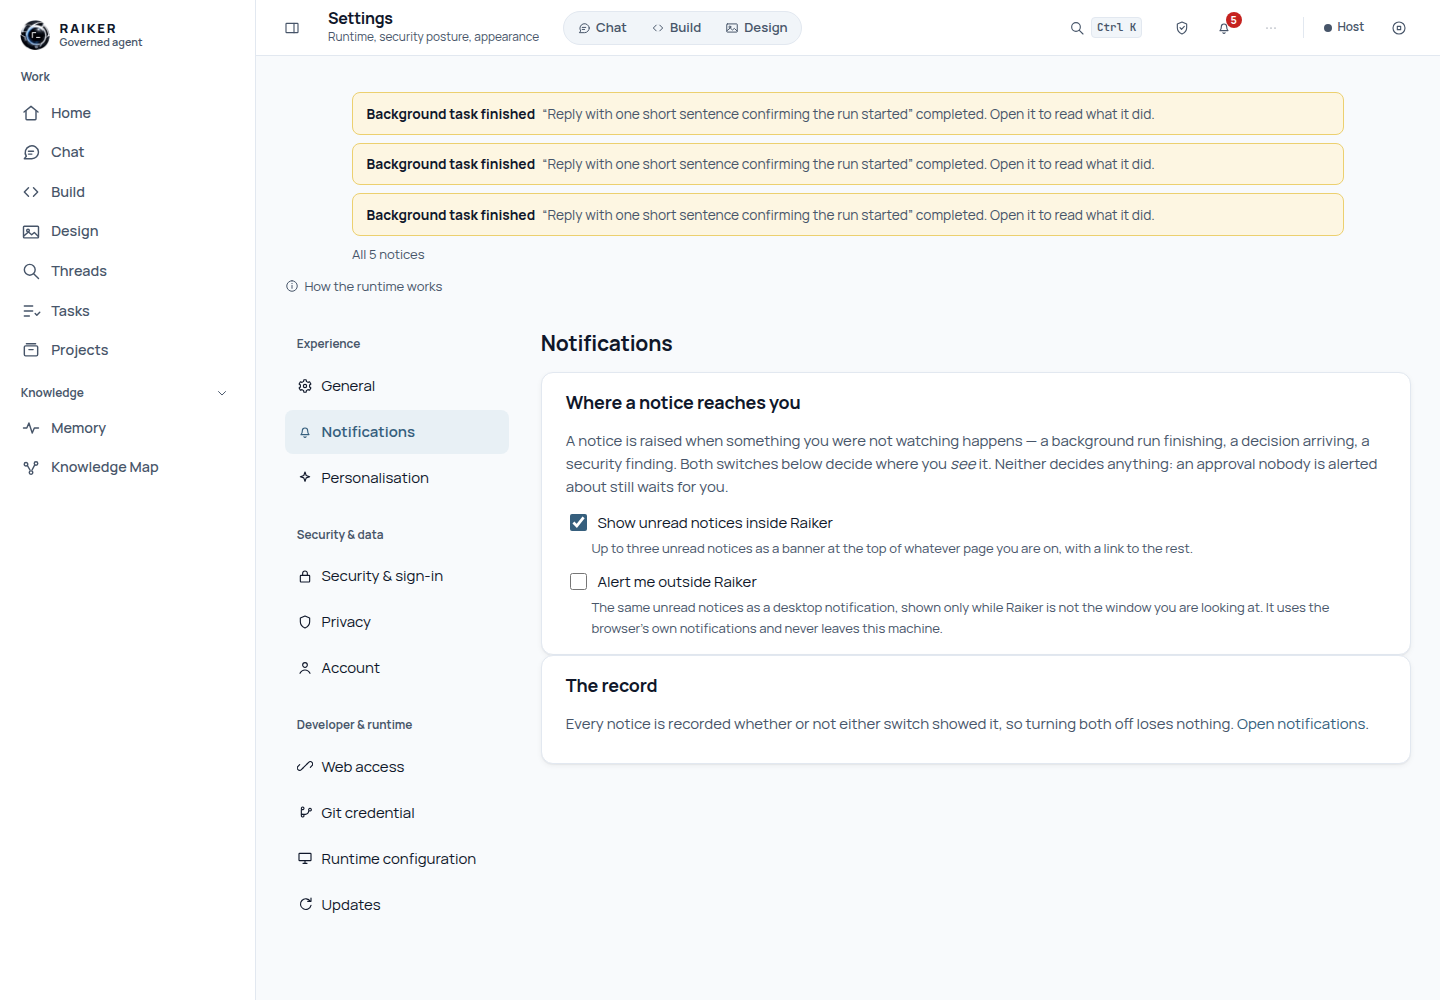
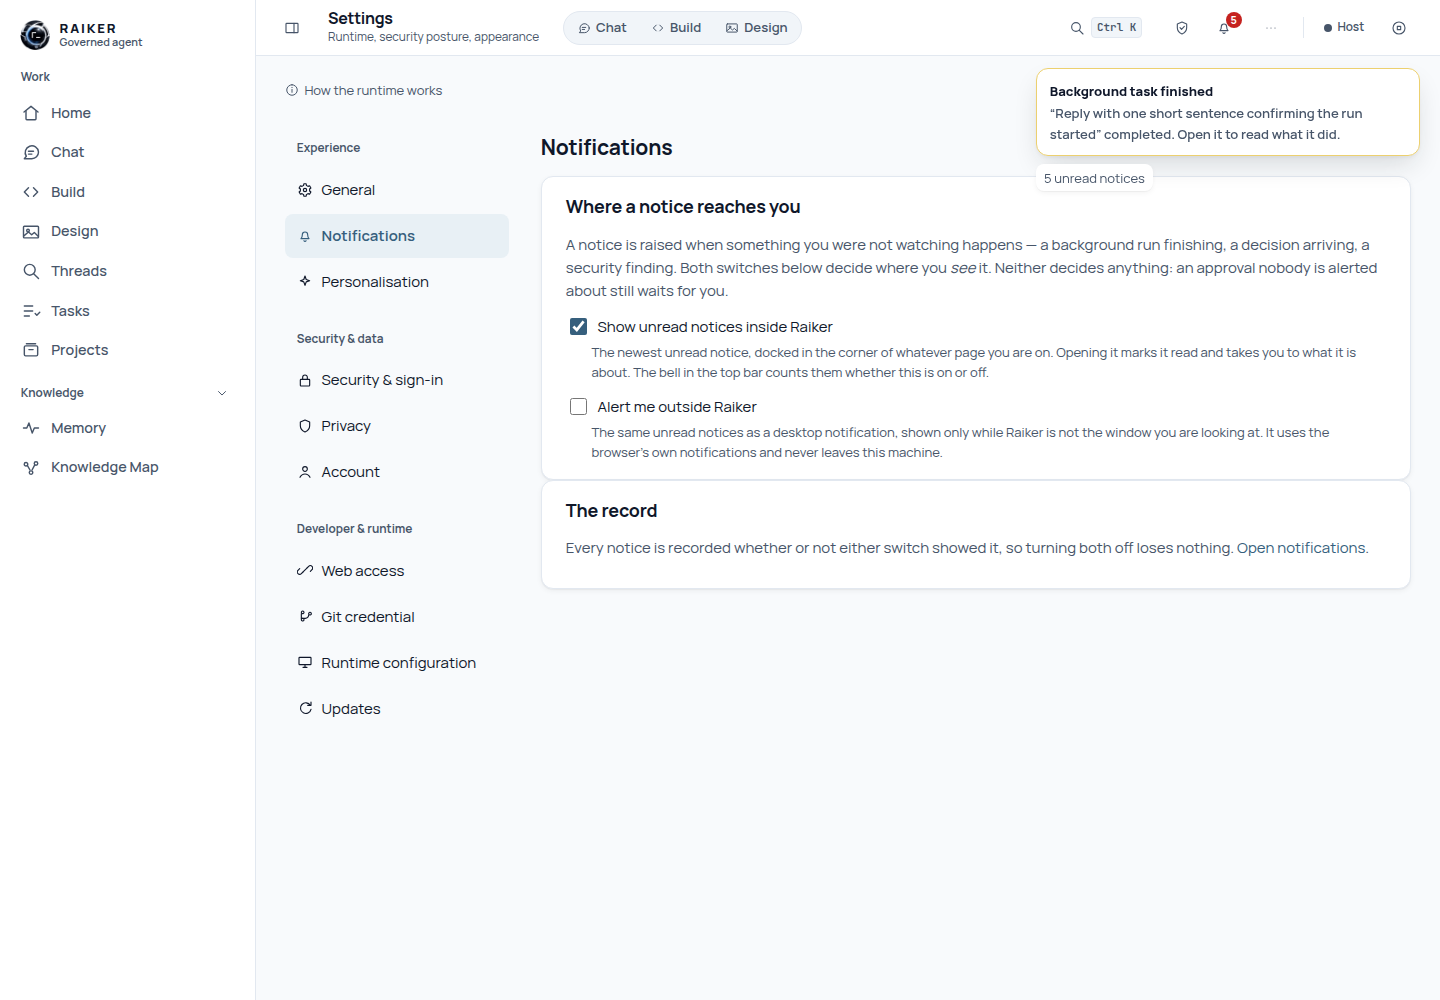
Dock the notice strip, and generate the page catalogue that found it
The responsive sweep is the point of this commit, and it earned itself on
its first run.

`docs/screenshots/README.md` has said since the 2026-09-07 audit that
regenerating `docs/screenshots/pages/` "remains a live-test step before the
screenshot refresh can be called complete". It ran: every destination the nav
registry declares, at mobile (390x844) and 1080p, in light and dark, 176
files, against a live host. The sweep asserts as it captures — no horizontal
overflow, no missing icon glyph, no off-screen selected tab, no undersized
control, the content column centred within its maximum.

It failed immediately, and correctly. The notification strip this branch
moved into the shell had been placed above the routed page, and Chat, Build
and Design size themselves to `--content-h` — the room between the topbar and
the bottom of the viewport — so anything above them pushes their composer off
the bottom. At 390x844 Build's composer ended 385px past the edge. No
component test could have seen that; the sweep measures the real thing at the
real size.

So the strip docks, like ApprovalPrompt, at the opposite corner, taking no
part in any page's height. Reading the captures then found two more
placement facts an assertion would not have: three docked cards covered
Home's primary actions at 1080p and most of the screen at 390px, and a docked
notice that nothing dismisses is permanent — a worse obstruction than the
[…]

diff --git a/web/src/lib/components/NotificationCenter.svelte b/web/src/lib/components/NotificationCenter.svelte
@@ -49,6 +49,27 @@
     return () => clearInterval(timer);
   });
 
+  /**
+   * Reading it is what clears it.
+   *
+   * A docked notice that nothing dismisses is a permanent obstruction, which is
+   * a worse defect than the one this strip was moved to fix. Opening it marks
+   * the notice read through the same route the bell's **Mark all read** uses,
+   * so the strip, the bell's count and the record never disagree — and the
+   * owner lands on the record rather than on a banner they have to ignore.
+   */
+  async function open(notification: RaikerNotification) {
+    window.location.hash =
+      notification.kind === "task_finished" ? "#/tasks" : "#/observe?tab=notifications";
+    try {
+      await api.markNotificationRead(notification.notification_id);
+    } catch {
+      // The navigation already happened and the record is still the record.
+      // A failed mark leaves the notice unread, which is the truth.
+    }
+    await poll();
+  }
+
   // Mirror new unread notifications to the desktop through the one path every
   // surface uses (BUG-255). Best-effort only — the in-app record is the source
   // of truth.
@@ -70,34 +91,69 @@
   });
 </script>
 
-{#if uiPrefs.inApp && unread.length}
+{#if uiPrefs.inApp && unread.length > 0}
+  {@const newest = unread[0]}
   <section class="notifications" aria-label="Notifications">
-    {#each unread.slice(0, 3) as notification (notification.notification_id)}
-      <div class="notice notice-warn" role="status">
-        <strong>{notification.title}</strong><span>{notification.body}</span>
-      </div>
-    {/each}
-    <!-- Three is what fits without becoming the page. The rest are not lost:
-         every notice is recorded, and the link says where. -->
-    <a class="all" href="#/observe?tab=notifications">
-      {unread.length > 3
-        ? `All ${unread.length} notices`
-        : unread.length === 1
-          ? "Open notifications"
-          : "All notices"}
-    </a>
+    <!-- One, not a stack. Three docked cards covered Home's primary actions at
+         1080p and most of the screen at 390px, which is a worse obstruction
+         than the banner nobody could see. The rest are never lost: the bell
+         counts them and the link below opens the record. -->
+    <button type="button" class="notice" onclick={() => void open(newest)}>
+      <strong>{newest.title}</strong><span>{newest.body}</span>
+    </button>
+    {#if unread.length > 1}
+      <a class="all" href="#/observe?tab=notifications"
+        >{unread.length} unread notices</a
+      >
+    {/if}
   </section>
 {/if}
 
 <style>
+  /**
+   * Docked rather than in the flow, and the reason is measurable.
+   *
+   * The first placement put this inside `main#main`, above the routed page. The
+   * responsive sweep caught it immediately: Chat, Build and Design size
+   * themselves to `--content-h` — the room between the topbar and the bottom of
+   * the viewport — so anything added above them pushes their composer below the
+   * fold. At 390×844 Build's composer ended 385px past the bottom edge.
+   *
+   * A notice is not page content; the record is, and it is one link away. So
+   * this docks like `ApprovalPrompt` does — fixed, bounded, and taking no part
+   * in any page's height — at the opposite corner, so the two never collide.
+   */
   .notifications {
+    position: fixed;
+    top: calc(var(--topbar-h) + 12px);
+    right: 20px;
+    z-index: var(--z-docked);
+    width: min(24rem, calc(100vw - 40px));
     display: grid;
     gap: var(--space-2);
-    margin: 0 auto var(--space-3);
-    max-width: 64rem;
-    padding: var(--space-3) var(--space-4) 0;
+    justify-items: start;
   }
-  .notice { display: flex; gap: .45rem; flex-wrap: wrap; margin: 0; }
-  .notice span { color: var(--text-2); }
-  .all { color: var(--text-2); font-size: var(--text-sm); justify-self: start; }
+  .notice {
+    display: grid;
+    gap: 0.15rem;
+    width: 100%;
+    text-align: left;
+    cursor: pointer;
+    padding: 0.72rem 0.8rem;
+    border: 1px solid var(--warn-border, var(--neutral-border));
+    border-radius: var(--r-md);
+    background: var(--surface);
+    box-shadow: var(--shadow-2);
+  }
+  .notice:hover { border-color: var(--accent-border, var(--neutral-border)); }
+  .notice strong { color: var(--text-1); font-size: var(--text-sm); }
+  .notice span { color: var(--text-2); font-size: var(--text-sm); overflow-wrap: anywhere; }
+  .all {
+    color: var(--text-2);
+    font-size: var(--text-sm);
+    padding: 0.2rem 0.5rem;
+    border-radius: var(--r-sm);
+    background: var(--surface);
+    box-shadow: var(--shadow-1);
+  }
 </style>

diff --git a/web/src/lib/components/SessionMenu.test.ts b/web/src/lib/components/SessionMenu.test.ts
@@ -1,4 +1,4 @@
-import { fireEvent, render, screen } from "@testing-library/svelte";
+import { fireEvent, render, screen, waitFor } from "@testing-library/svelte";
 import { afterEach, describe, expect, it, vi } from "vitest";
 import { api, setToken } from "../api";
 import { stubFetch } from "../test-helpers";
@@ -92,7 +92,7 @@ describe("shared page feedback", () => {
   // the shell rather than on one page. It was mounted on the MCP destination
   // alone, so the account-wide "In-app popups" setting decided whether a banner
   // appeared somewhere the owner might never open.
-  it("shows unread notices wherever the owner is, and links the full record", async () => {
+  it("shows the newest unread notice wherever the owner is", async () => {
     setToken("control-token");
     stubFetch({
       "GET /api/notifications": [
@@ -106,10 +106,38 @@ describe("shared page feedback", () => {
     expect(strip).toHaveTextContent("Security finding");
     // A notice that has been read is a record, not an alert.
     expect(strip).not.toHaveTextContent("Nightly digest");
-    expect(screen.getByRole("link", { name: "Open notifications" })).toHaveAttribute(
+    // One unread: the count link would be a link to a page saying the same
+    // thing this card already says.
+    expect(screen.queryByRole("link", { name: /unread notices/ })).not.toBeInTheDocument();
+  });
+
+  // A docked notice nothing dismisses is a permanent obstruction, which is a
+  // worse defect than the banner nobody could see. Reading it clears it.
+  it("marks a notice read when it is opened, and counts the rest", async () => {
+    setToken("control-token");
+    const fetchMock = stubFetch({
+      "GET /api/notifications": [
+        { notification_id: "ntf_1", kind: "task_finished", title: "Nightly digest", body: "Done.", finding_id: null, subject_id: null, read: false, created_at: "2026-07-18T00:00:00Z" },
+        { notification_id: "ntf_2", kind: "security_alert", title: "Security finding", body: "Review it.", finding_id: null, subject_id: null, read: false, created_at: "2026-07-18T00:00:00Z" },
+      ],
+      "POST /api/notifications/ntf_1/read": { ok: true },
+    });
+    render(NotificationCenter);
+
+    expect(await screen.findByRole("link", { name: "2 unread notices" })).toHaveAttribute(
       "href",
       "#/observe?tab=notifications",
     );
+    await fireEvent.click(await screen.findByRole("button", { name: /Nightly digest/ }));
+
+    await waitFor(() =>
+      expect(fetchMock).toHaveBeenCalledWith(
+        expect.stringContaining("/api/notifications/ntf_1/read"),
+        expect.objectContaining({ method: "POST" }),
+      ),
+    );
+    // A finished run lands on the work, not on a list about it.
+    expect(window.location.hash).toBe("#/tasks");
   });
 });
 

diff --git a/web/e2e/rem-set-notify-live.spec.ts b/web/e2e/rem-set-notify-live.spec.ts
@@ -65,6 +65,27 @@ test("notification settings name what each switch reaches", async ({ page }) => 
   expect(consoleErrors).toEqual([]);
 });
 
+test("a docked notice clears by being read", async ({ page }) => {
+  // A docked notice nothing dismisses is a permanent obstruction — a worse
+  // defect than the banner nobody could see. Opening it marks it read through
+  // the same route the bell's Mark all read uses, so the strip, the bell's
+  // count and the record cannot disagree.
+  test.setTimeout(180_000);
+  await signInAsOwner(page, BASE);
+  await page.goto(`${BASE}/#/home`);
+
+  const strip = page.getByRole("region", { name: "Notifications" });
+  const visible = await strip.isVisible().catch(() => false);
+  test.skip(!visible, "This workspace has no unread notice to read, so there is nothing to clear.");
+
+  const notice = strip.getByRole("button").first();
+  const title = ((await notice.textContent()) ?? "").trim();
+  await notice.click();
+  // The same notice does not come back: the poll that follows the mark reads it
+  // as read, which is what it now is.
+  await expect(strip.getByRole("button", { name: title })).toHaveCount(0, { timeout: 30_000 });
+});
+
 test("Storage is not a Settings destination, by any route", async ({ page }) => {
   // REM-SET-STORAGE — `Storage.svelte` presented record counts as "Local usage"
   // and claimed everything stays on one machine. Neither establishes storage

diff --git a/web/e2e/all-pages-live.spec.ts b/web/e2e/all-pages-live.spec.ts
@@ -60,7 +60,19 @@ test("capture every application page from a live instance", async ({ page }) => 
     if (name === "models-huggingface" && hub.refused()) {
       await expect(page.getByText("Hugging Face could not be reached")).toBeVisible();
     }
-    await capture(page, `../../docs/plans/screenshots/pages/${name}.png`);
+    // Found 2026-09-15. This wrote the page catalogue into
+    // `docs/plans/screenshots/pages/`, which `docs/plans/README.md` describes
+    // as *historical* evidence that "may intentionally contain obsolete
+    // states", while `docs/screenshots/README.md` names exactly one generator
+    // for the current catalogue — `ui-sweep-responsive-live` — and one place
+    // for it. So two trees each claimed to be the page catalogue, the
+    // historical one was the one being kept current, and the canonical one was
+    // empty.
+    //
+    // This sweep is not that generator, so its captures belong with the run
+    // rather than in either tree: the run directory is where evidence that is
+    // about one execution goes.
+    await capture(page, `../../output/playwright/pages/${name}.png`);
   }
   expect(hub.filter(consoleErrors)).toEqual([]);
 });

diff --git a/web/src/App.svelte b/web/src/App.svelte
@@ -293,7 +293,6 @@
         onClose={() => (allPagesOpen = false)}
       />
       <main id="main" class="content" tabindex="-1">
-        <NotificationCenter />
         <!-- The topbar already shows the route title + hint; the page itself
            opens with its own lead so nothing is said twice. -->
         <ResponsivePage layout={pageLayout}>
@@ -396,6 +395,7 @@
   </div>
   <ModelSetupDialog />
   <ApprovalPrompt />
+  <NotificationCenter />
   <ModelOperationTray />
 {/if}
 

diff --git a/web/src/lib/views/settings/Notification.svelte b/web/src/lib/views/settings/Notification.svelte
@@ -85,8 +85,9 @@
     Show unread notices inside Raiker
   </label>
   <p class="sub detail">
-    Up to three unread notices as a banner at the top of whatever page you are
-    on, with a link to the rest.
+    The newest unread notice, docked in the corner of whatever page you are on.
+    Opening it marks it read and takes you to what it is about. The bell in the
+    top bar counts them whether this is on or off.
   </p>
 
   <label class="toggle">

diff --git a/docs/plans/LIVE_TEST_ROUNDS.md b/docs/plans/LIVE_TEST_ROUNDS.md
@@ -33,7 +33,7 @@ process environment, for the duration of the round only.
 
 | Date | Tier | Prefix | Providers | What it covered |
 |---|---|---|---|---|
-| 2026-09-15 | Targeted | `2026-09-15-task-history/` | Anthropic (`claude-haiku-4-5-20251001`), the same key entered through the Connect dialog | A task's attempts read at an address the task did not have — the run the scheduler claimed, how it settled, and the three surfaces that now link to it; plus two Settings rows that were saying more than they governed |
+| 2026-09-15 | Targeted | `2026-09-15-task-history/` | Anthropic (`claude-haiku-4-5-20251001`), the same key entered through the Connect dialog | A task's attempts read at an address the task did not have — the run the scheduler claimed, how it settled, and the three surfaces that now link to it; plus two Settings rows that were saying more than they governed, and the first generation of the `docs/screenshots/pages/` catalogue — 176 files, which caught a composer 385px below the fold |
 | 2026-09-14 (second) | Targeted | `2026-09-14-simplification/` | Anthropic, the same eighth key — a catalogue, a model kept offered, a model chosen for the turn, and an answer | Nine owner-facing changes of the simplification pass, driven through the product's own controls on a workspace that started empty, ending with **zero uncaught console errors** on a host that can reach neither `huggingface.co` nor `openrouter.ai` |
 | 2026-09-14 | Targeted | `2026-09-14-permissions-overhaul/` | Anthropic, an eighth key entered through the Connect dialog — the first of the eight that authenticates and lists models | The rebuilt Permissions page measured on the running product, the §18.3 rows that closed with it, and three live-test helpers that had been waiting on strings the product stopped printing |
 | 2026-09-07 | Targeted | `env-01-` … `env-05-` | Anthropic, a **seventh** identity-linked key entered through the interface; no local runtime on the host | The clock, the weather and the global read catalogue as runtime facts — and two harness defects that had been silent since the `apps/web` → `web` move: every live round writing its captures outside the repository, and every provider spec waiting for a tab the Models redesign removed |
@@ -140,10 +140,41 @@ round makes from the running host.
    `docs/screenshots/2026-09-15-task-history/settings-notifications.png`, which
    also shows the moved strip doing its job: the unread notices from this
    round's own task runs, on Settings, where the old placement showed nothing.
-9. **Storage is not a destination, by any route.** The rail offers no row,
-   `#/settings?tab=storage` falls back rather than rendering the deleted page,
-   and *“Everything stays on this machine”* appears nowhere in the running
-   product.
+9. **A docked notice clears by being read.** Opening it marks it read through
+   the same route the bell's **Mark all read** uses, and the same notice does
+   not come back.
+10. **Storage is not a destination, by any route.** The rail offers no row,
+    `#/settings?tab=storage` falls back rather than rendering the deleted page,
+    and *“Everything stays on this machine”* appears nowhere in the running
+    product.
+
+### The page catalogue, generated at last
+
+`docs/screenshots/README.md` has said since the 2026-09-07 audit that
+regenerating `docs/screenshots/pages/` "remains a live-test step before the
+screenshot refresh can be called complete". It ran here:
+`ui-sweep-responsive-live` against this host, every destination the nav registry
+declares, at `mobile` (390×844) and `1080p` (1920×1080), in light and dark —
+176 files, all four cases passing.
+
+**It caught a defect on its first run, which is the argument for having it.**
+The notification strip of item 8 had been placed above the routed page, and
+Chat, Build and Design size themselves to `--content-h`. At 390×844 Build's
+composer ended **385px past the bottom edge**. Nothing in a component test could
+have seen it; the sweep measures the real thing at the real size. The strip is
+docked now, and the same sweep passes.
+
+Two further placement facts came from reading the captures rather than from an
+assertion, and both were fixed before the catalogue was kept: three docked
+notices covered Home's primary actions at 1080p and most of the screen at 390px,
+and a docked notice that nothing dismisses is permanent.
+
+**One generator writes that catalogue now.** `all-pages-live` had been writing a
+second page catalogue into `docs/plans/screenshots/pages/` — the tree
+`docs/plans/README.md` calls *historical* evidence that "may intentionally
+contain obsolete states". So two trees each claimed to be the catalogue, the
+historical one was the one being kept current, and the canonical one was empty.
+That sweep writes to the run's own `output/` directory now.
 
 ## 2026-09-14 (second) — Twelve simplifications, nine of them watched
 

diff --git a/docs/plans/FIXED_ITEMS.md b/docs/plans/FIXED_ITEMS.md
@@ -23687,8 +23687,22 @@ find out was a notice that never arrived.
   notices appear wherever the owner is and the setting means what it says. It
   reads its own notifications rather than taking them as a prop, for the reason
   `ApprovalPrompt` does: the shell has no reason to know about notifications,
-  and the only thing using a read should own it. It shows three and links the
-  rest, so the strip never becomes the page.
+  and the only thing using a read should own it.
+* **It is docked, not in the flow, and the sweep is why.** The first placement
+  put it inside `main#main` above the routed page, and
+  `ui-sweep-responsive-live` failed on its first run: Chat, Build and Design
+  size themselves to `--content-h` — the room between the topbar and the bottom
+  of the viewport — so anything added above them pushes their composer below the
+  fold, and at 390×844 Build's composer ended **385px past the bottom edge**. It
+  docks like `ApprovalPrompt` now, at the opposite corner, taking no part in any
+  page's height.
+* **One notice, and reading it clears it.** Three docked cards covered Home's
+  primary actions at 1080p and most of the screen at 390px — a worse obstruction
+  than the banner nobody could see — and a docked notice that nothing dismisses
+  is permanent. It shows the newest unread one; opening it marks it read through
+  the same route the bell's **Mark all read** uses and lands the owner on what
+  it is about, so the strip, the bell's count and the record cannot disagree. A
+  link counts the rest.
 * Each switch is named for what it reaches — **Show unread notices inside
   Raiker**, **Alert me outside Raiker** — with one sentence each stating the
   real scope.
@@ -23709,10 +23723,15 @@ whole contract.
 **Verification.** Six cases in
 `web/src/lib/views/settings/Notification.test.ts`, including that the page stays
 quiet about permission while the switch is off and speaks up when it is on and
-blocked. The moved strip is asserted in `SessionMenu.test.ts` — it reads its own
-notices, hides read ones, and links the full record. `McpView.test.ts` no longer
-asserts a notification banner on the MCP page, because that is not the MCP
-page's job. Driven live on 2026-09-15.
+blocked. Two in `SessionMenu.test.ts`: the strip reads its own notices and hides
+read ones, and opening one marks it read and lands on the work.
+`McpView.test.ts` no longer asserts a notification banner on the MCP page,
+because that is not the MCP page's job.
+
+**Live, 2026-09-15.** `web/e2e/rem-set-notify-live.spec.ts` — three cases,
+passing — and the full responsive sweep at `mobile` and `1080p` in both themes
+across every destination, which is what caught the placement defect above and
+what proves the docked version costs no page its layout.
 
 ---
 

diff --git a/docs/screenshots/README.md b/docs/screenshots/README.md
@@ -94,3 +94,11 @@ The legacy screenshot tree contains older Models names such as Hosted, Local, Hu
 ## 2026-09-07 audit status
 
 The audit branch moved the generator to this directory and removed 4K/8K capture classes. It did **not** fabricate or copy current PNGs because no authenticated live Raiker instance or current screenshot artifact was available to this repository review. Regeneration therefore remains a live-test step before the screenshot refresh can be called complete.
+
+## 2026-09-15 — the catalogue exists
+
+That live-test step ran. `pages/` now holds the full sweep — every destination the nav registry declares, at `mobile` and `1080p`, in light and dark — generated by the command above against an authenticated instance with an Anthropic key. The sweep asserts as it captures: no page overflows horizontally, no icon fails to render, no selected hub tab is off-screen, no control is undersized, the content column is centred within its maximum, and the locked load logs nothing.
+
+It caught a real defect on its first run, which is the argument for having it: a notification strip that had been placed above the routed page pushed Build's composer 385px below the bottom edge at 390×844, because Chat, Build and Design size themselves to `--content-h`. The strip is docked now and takes no part in any page's height.
+
+**Only one generator writes here.** `all-pages-live.spec.ts` used to write a page catalogue into `docs/plans/screenshots/pages/` — the tree this file and `docs/plans/README.md` both describe as *historical*. Two trees each claimed to be the catalogue, the historical one was the one being kept current, and this one was empty. That sweep writes its captures to the run's own `output/` directory now, where evidence about one execution belongs.

diff --git a/docs/guide/tasks-and-projects.md b/docs/guide/tasks-and-projects.md
@@ -215,8 +215,9 @@ link to **Tasks**, where the card carries the run's own conversation thread and
 its title opens the attempt history above.
 
 **Settings → Notifications** decides where you see it, and nothing else. *Show
-unread notices inside Raiker* puts up to three unread ones as a banner at the top
-of whatever page you are on, with a link to the rest; *Alert me outside Raiker*
+unread notices inside Raiker* docks the newest unread one in the corner of
+whatever page you are on — opening it marks it read and takes you to what it is
+about, and the bell in the top bar counts them either way; *Alert me outside Raiker*
 raises the browser's own notification for the same ones, only while Raiker is not
 the window you are looking at, and it never leaves this machine. If the browser
 has blocked notifications, the page says so rather than leaving a switch that
